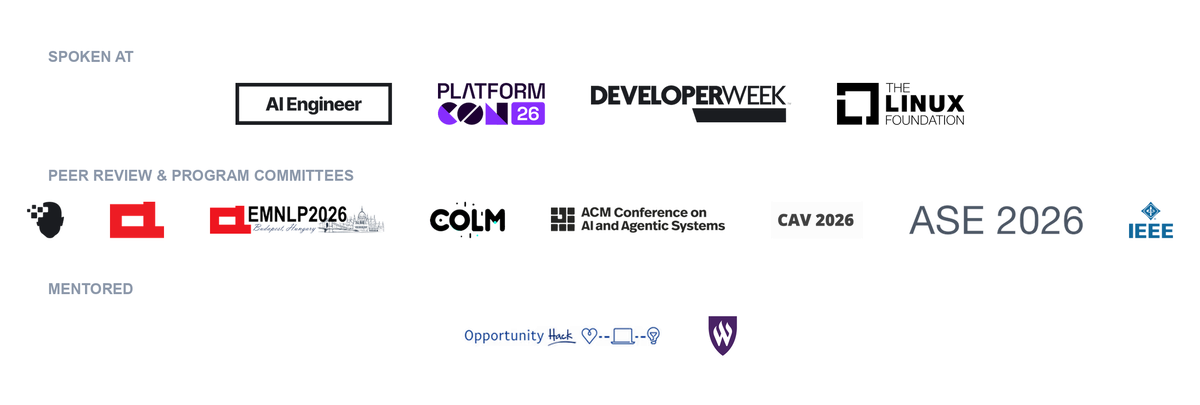
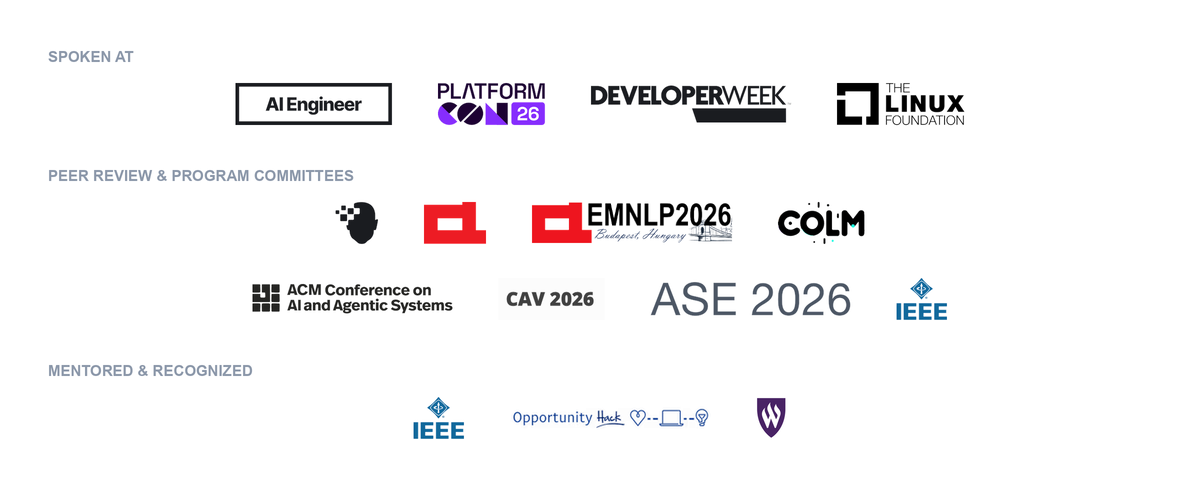
Refine collaborations wall: wrap peer review, crop EMNLP, IEEE in both rows
Split peer review into two rows, keep original-color logos, trim EMNLP's
skyline to the wordmark, list IEEE in both peer review and recognition, and
drop the caption line under the wall.

diff --git a/README.md b/README.md
@@ -171,8 +171,6 @@ Runtime control and safe rollout for autonomous AI agents in production.</p>
   <img src="./assets/collaborations.png" width="100%" alt="Organizations Sachin has collaborated with — conferences spoken at, program committees reviewed for, and communities mentored and recognized by" />
 </p>
 
-<p align="center"><sub>Speaking · peer review &amp; program committees · mentoring — <a href="https://www.guptasachinn.com/">full activity log</a></sub></p>
-
 ## Beyond the terminal
 
 <table>
